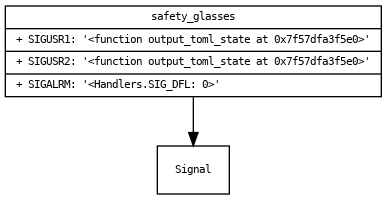
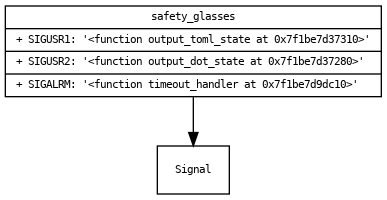
Use a class-based context manager

Changed region(s): [[0.2171, 0.39, 0.9302, 0.45], [0.4961, 0.27, 0.9612, 0.36], [0.7752, 0.15, 0.9302, 0.24]]

diff --git a/safety_glasses/graceful_timeout.py b/safety_glasses/graceful_timeout.py
@@ -14,19 +14,35 @@ def timeout_handler(signum, frame):
     raise OSError(f'Timeout in {frame}!')
 
 
-@contextmanager
-def graceful_timeout(timeout=10):
+class graceful_timeout():
     """
     Set OS ALARM to happen after timeout
+    Usage:
+    with graceful_timeout(timeout=5) as watched:
+        if not watched:
+            print('Did not set timeout')
+        do_things()
     """
-    try:
-        signal.signal(signal.SIGALRM, timeout_handler)
-        signal.alarm(timeout)
-        yield True
-    except Exception:
-        yield False
-    finally:
+
+    _timeout = 60
+    _setup = False
+
+    def __init__(self, timeout):
+        if timeout:
+            self._timeout = timeout
+
+    def __enter__(self):
         try:
-            signal.alarm(0)
+            signal.signal(signal.SIGALRM, timeout_handler)
+            signal.alarm(self._timeout)
+            self._setup = True
+            return True
+        except Exception:
+            return False
+
+    def __exit__(self, *args, **kwargs):
+        try:
+            if self._setup:
+                signal.alarm(0)
         except Exception:
             pass

diff --git a/safety_glasses/test.py b/safety_glasses/test.py
@@ -14,11 +14,10 @@ def main():
 
     setup_global_state_output()
 
-    # output_global_state(tomler, stream=sys.stdout)
-    output_global_state(dotter, stream=sys.stdout)
-
     with graceful_timeout(10) as is_handled:
         print(f'{is_handled=}')
+        # output_global_state(tomler, stream=sys.stdout)
+        output_global_state(dotter, stream=sys.stdout)
         time.sleep(1)
 
     print('OK up to here, now break:')
@@ -28,7 +27,7 @@ def main():
             print(f'{is_handled=}')
             time.sleep(600)
     except OSError as e:
-        print('YES, GOT ' + e)
+        print('YES, GOT ' + str(e))
     else:
         print('SHOULD NOT GET HERE')
 

diff --git a/setup.py b/setup.py
@@ -2,11 +2,14 @@
 
 from distutils.core import setup
 
-setup(name='safety-glasses',
-      version='0.1.0',
-      description='Safety debug utilities',
-      author='Janne Tervo',
-      author_email='jawcraig@gmail.com',
-      url='https://github.com/jawcraig/safety-glasses/',
-      packages=['safety_glasses'],
-     )
+setup(
+    name='safety-glasses',
+    version='0.1.0',
+    description='Safety debug utilities',
+    author='Janne Tervo',
+    author_email='jawcraig@gmail.com',
+    url='https://github.com/jawcraig/safety-glasses/',
+    packages=['safety_glasses'],
+    license='MIT',
+    license_files=('LICENSE'),
+)

diff --git a/safety_glasses/__init__.py b/safety_glasses/__init__.py
@@ -29,7 +29,7 @@ def safety_debug_global_state():
     return 'safety_glasses', [
         ("SIGUSR1", repr(signal.getsignal(signal.SIGUSR1))
          if hasattr(signal, 'SIGUSR1') else 'n/a'),
-        ("SIGUSR2", repr(signal.getsignal(signal.SIGUSR1))
+        ("SIGUSR2", repr(signal.getsignal(signal.SIGUSR2))
          if hasattr(signal, 'SIGUSR2') else 'n/a'),
         ("SIGALRM", repr(signal.getsignal(signal.SIGALRM))
          if hasattr(signal, 'SIGALRM') else 'n/a'),

diff --git a/README.md b/README.md
@@ -5,6 +5,19 @@ Safety and debug tools for python programs
 
 see safety_glasses/test.py for examples
 
+Use alarm signal to interrupt hanged system call
+----
+    from safety_glasses.grafecul_timeout import graceful_timeout
+    try:
+        with graceful_timeout(5) as result:
+            print(result):
+            with open('remote-file.txt') as fp:
+                result = fp.read()
+    except OSError:
+        print("interrupted")
+
+
+
 Add program global state printer signal
 ----
 
@@ -25,16 +38,22 @@ def safety_debug_global_state():
 
 
 # Output global state as toml:
+    from safety_glasses.output_global_state import output_global_state
     output_global_state(tomler, stream=sys.stdout)
 
 # Add SIGUSR1 handler for toml output and SIGUSR2 handler for dot output:
+    from safety_glasses.output_global_state import setup_global_state_output
     setup_global_state_output()
 ```
 
 # Send user signal to program
 ```bash
+# Output tomli to logger using signal SIGUSR1
+kill -SIGUSR1 2575
+
+# Output DOT to logger using signal SIGUSR2
 kill -SIGUSR2 2575
 
-# Output png from dot
+# Get png from dot (requires graphviz)
 dot -Tpng test.dot > test.png
 ```
